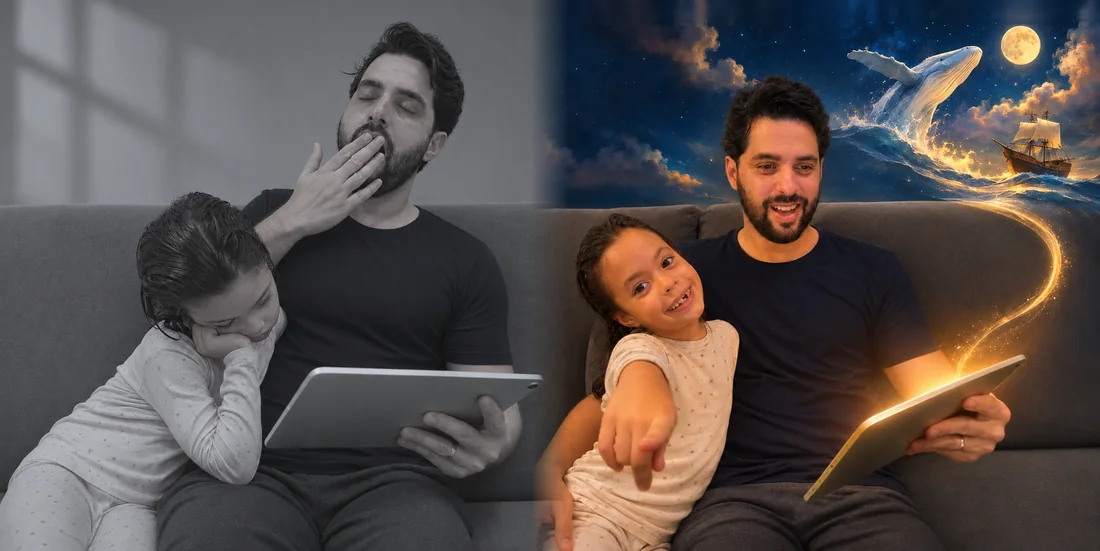
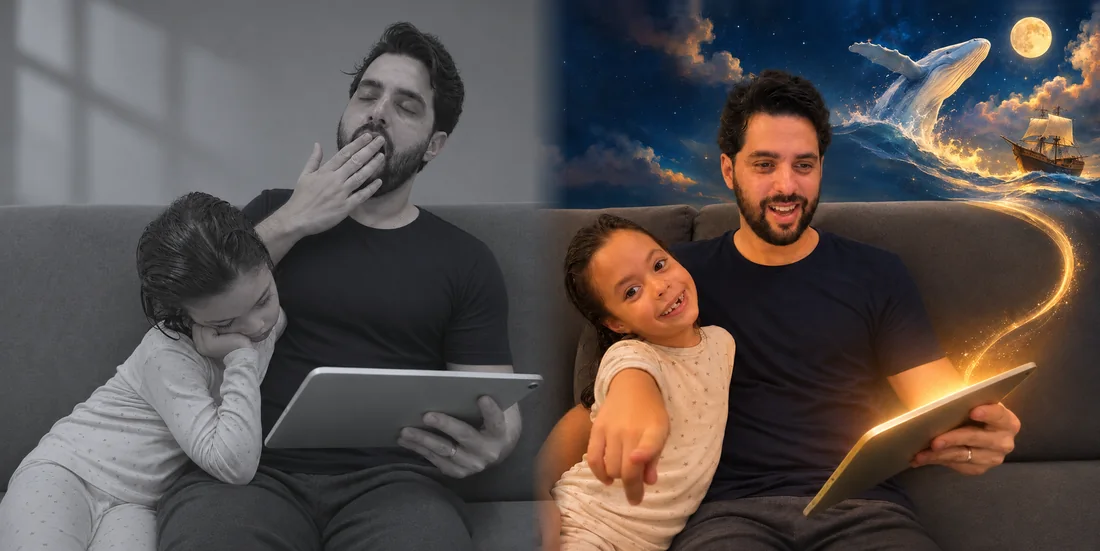
Origem: metade animada aproximada 5% para equilibrar o tamanho das pessoas (#112)
Claude-Session: https://claude.ai/code/session_01KvAZ7XPPHCjHbd3L7L9vJR

Changed region(s): [[0.4945, 0.0, 1.0, 1.0], [0.4945, 0.2777, 0.5255, 0.3085]]

diff --git a/landing/index.html b/landing/index.html
@@ -139,12 +139,12 @@ nav .btn{min-height:40px;padding:0 18px;font-size:14px}
    A janela dele termina exatamente no encosto do sofá, então ele sobe "de trás" do sofá. */
 .origem-cena{position:relative;border-radius:16px;overflow:hidden;box-shadow:var(--shadow);aspect-ratio:1740/871}
 .origem-cena>img{display:block;width:100%;height:100%;border-radius:0;box-shadow:none}
-.origem-bento{position:absolute;left:74.7%;width:5.73%;top:21.5%;height:15.09%;overflow:hidden;pointer-events:none}
-.origem-bento img{position:absolute;left:0;bottom:0;width:100%;height:78.1%;border-radius:0;box-shadow:none}
+.origem-bento{position:absolute;left:74.74%;width:6.02%;top:20.71%;height:15.85%;overflow:hidden;pointer-events:none}
+.origem-bento img{position:absolute;left:0;bottom:0;width:100%;height:78.06%;border-radius:0;box-shadow:none}
 /* Com JavaScript, o Bento começa escondido e surge uma vez só quando a seção aparece; termina na tela. Sem JavaScript ou com movimento reduzido, ele já está lá. */
 .origem-cena.anima .origem-bento img{transform:translateY(105%)}
 .origem-cena.anima.viva .origem-bento img{animation:bento-espia 1.4s ease-out 1s both}
-.origem-brilho{position:absolute;left:87.2%;top:66.7%;width:22%;aspect-ratio:1;transform:translate(-50%,-50%);border-radius:50%;background:radial-gradient(closest-side,rgba(255,200,110,.45),rgba(255,200,110,0));mix-blend-mode:screen;pointer-events:none;opacity:0}
+.origem-brilho{position:absolute;left:87.9%;top:68.2%;width:22%;aspect-ratio:1;transform:translate(-50%,-50%);border-radius:50%;background:radial-gradient(closest-side,rgba(255,200,110,.45),rgba(255,200,110,0));mix-blend-mode:screen;pointer-events:none;opacity:0}
 .origem-cena.viva .origem-brilho{animation:tablet-brilho 2.4s ease-out .2s both}
 @keyframes bento-espia{
   0%{transform:translateY(105%)}
@@ -613,9 +613,9 @@ details[open] summary::after{transform:rotate(180deg)}
 <section class="band origin">
   <div class="wrap">
     <div class="origem-cena" role="img" aria-label="O mesmo pai e a mesma filha com o mesmo tablet: à esquerda entediados; à direita encantados, com uma baleia saindo da tela, e o irmão aparecendo por trás do sofá para ver">
-      <img loading="lazy" decoding="async" width="1740" height="871" src="../images/secoes/origem-cena.webp?v=3" srcset="../images/secoes/origem-cena-1100.webp?v=3 1100w, ../images/secoes/origem-cena.webp?v=3 1740w" sizes="(max-width: 900px) 100vw, 60vw" alt="">
+      <img loading="lazy" decoding="async" width="1740" height="871" src="../images/secoes/origem-cena.webp?v=4" srcset="../images/secoes/origem-cena-1100.webp?v=4 1100w, ../images/secoes/origem-cena.webp?v=4 1740w" sizes="(max-width: 900px) 100vw, 60vw" alt="">
       <i class="origem-brilho" aria-hidden="true"></i>
-      <span class="origem-bento" aria-hidden="true"><img loading="lazy" decoding="async" src="../images/secoes/origem-bento.webp?v=2" alt=""></span>
+      <span class="origem-bento" aria-hidden="true"><img loading="lazy" decoding="async" src="../images/secoes/origem-bento.webp?v=4" alt=""></span>
     </div>
     <div class="story">
       <h2>Começou com a Giovana</h2>
